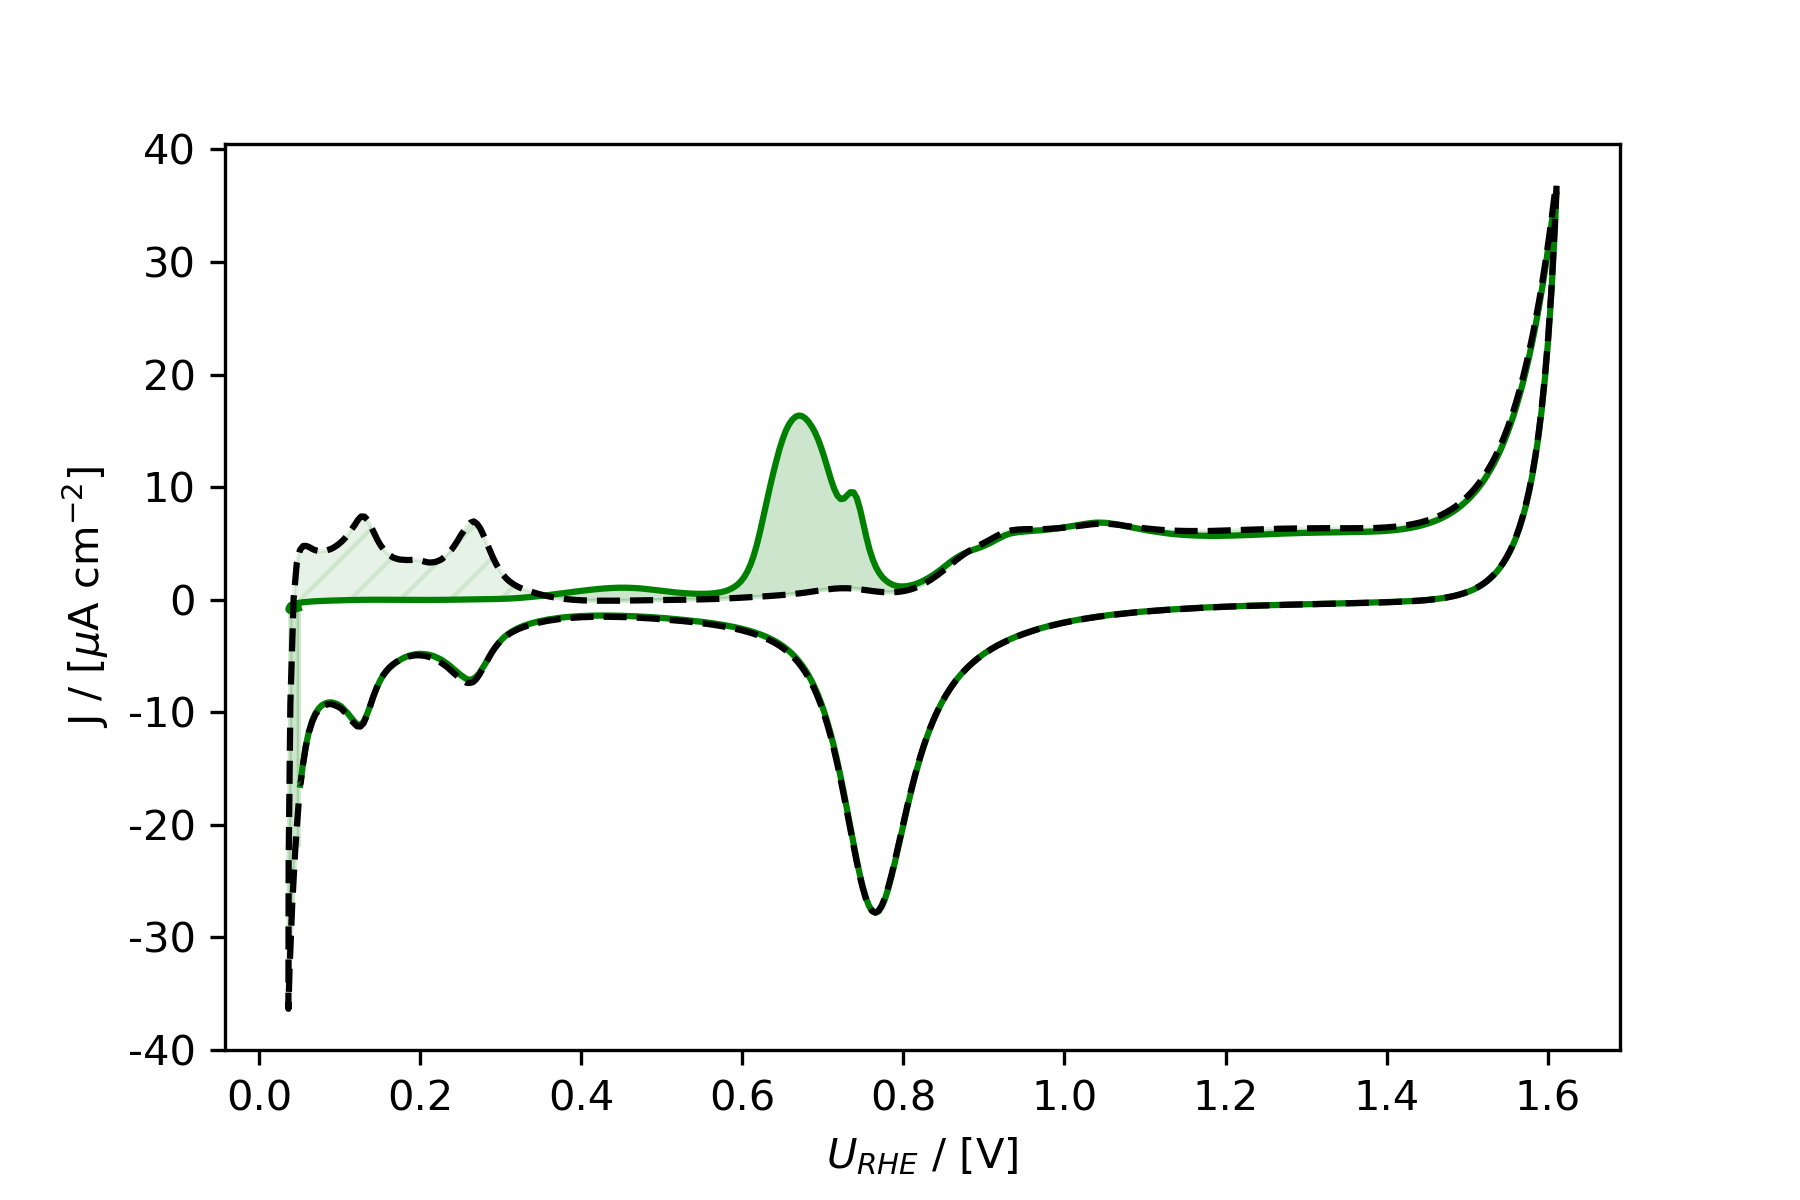
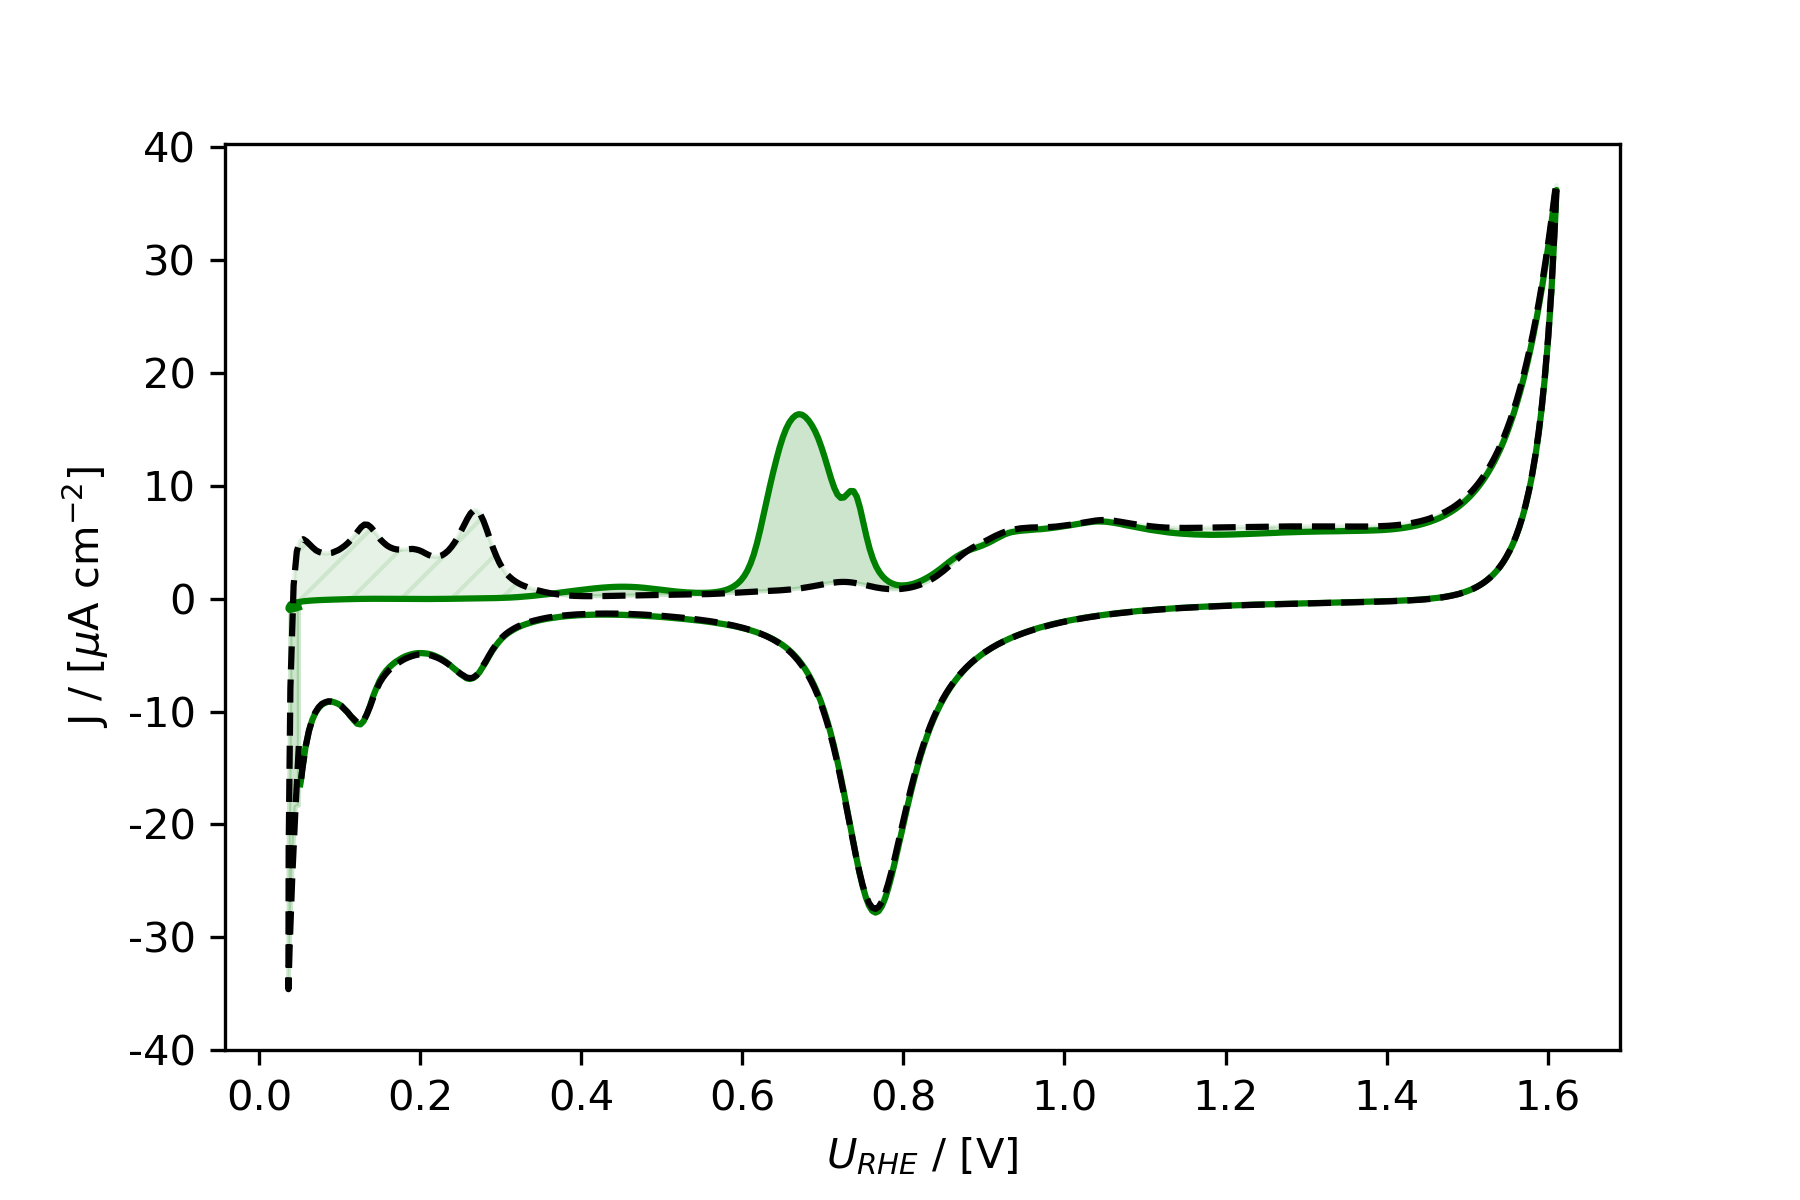
Change automatic figure naming so that all combinations of settings save unique figures

diff --git a/CO_strip_application_note/CO_stip_application_note_for_sharing_anw.py b/CO_strip_application_note/CO_stip_application_note_for_sharing_anw.py
@@ -26,7 +26,7 @@ DATA_SOURCE = "ixdat"
 # BioLogic .mpt files), or "ixdat" (for importing ixdat .csv files)
 WHICH_PART = "integrate+calibrate"
 # WHICH_PART can be "vs_time", "vs_potential", "integrate+calibrate"
-WHICH_REFERENCE = "2nd_cycle"
+WHICH_REFERENCE = "reference_cycle"
 # WHICH_REFERENCE determines which cycle is used as a baseline cycle for the 
 # CO strip. Can be "reference_cycle" (separate measurement), or "2nd_cycle"
 # (cycle directly after CO strip) 
@@ -153,8 +153,8 @@ def main():
         costrip_vs_u_fig = axes_c[0].get_figure()
         costrip_vs_u_fig.tight_layout()
         if SAVE_FIGURES is True:
-            plotname = "CO_strip+2ndcycle_vs_potential"
-            costrip_vs_u_fig.savefig(FIGURES_DIR / (plotname + FIGURE_TYPE))
+            plotname = "CO_strip_vs_potential_"
+            costrip_vs_u_fig.savefig(FIGURES_DIR / (plotname + WHICH_REFERENCE + FIGURE_TYPE))
         
     elif WHICH_PART == "integrate+calibrate":
         # FIRST integrate the ELECTROCHEMICAL CO stripping peak
@@ -221,7 +221,7 @@ def main():
         axes_co2_strip[2].set_yticklabels([-25, 0, 25])
         axes_co2_strip[2].set_ylabel("J / [$\mu$A cm$^{-2}$]")
         if SAVE_FIGURES is True:
-            axes_co2_strip[0].get_figure().savefig(FIGURES_DIR / ("CO_strip_CV_integrated_vs_time" + FIGURE_TYPE))
+            axes_co2_strip[0].get_figure().savefig(FIGURES_DIR / ("CO_strip_CV_integrated_vs_time_" + WHICH_REFERENCE + FIGURE_TYPE))
         
         print(f"Sensitivity factor F = {f_co2} using " + WHICH_REFERENCE + " as baseline.")
         
@@ -239,13 +239,15 @@ def main():
         if WHICH_REFERENCE == "reference_cycle":
             co_blank_cv.calibration = ECMSCalibration(ms_cal_results=[cal_co2], RE_vs_RHE=0, A_el=0.196)    
             bas_cycle = co_blank_cv[1]
+            tspan_background = [700,750]
         elif WHICH_REFERENCE == "2nd_cycle":
             bas_cycle = co_strip.cut(tspan=[1290, 1900])
+            tspan_background = [1700, 1800]
         else: #this is technically not required here, but left in anyway
             raise NameError("WHICH_REFERENCE not recognized.")
         
         axes_d = strip_cycle.plot_vs_potential(mol_list=["CO2_M44"], logplot=False, legend=False, tspan_bg=[600, 700])
-        bas_cycle.plot_vs_potential(axes=axes_d, mol_list=["CO2_M44"], logplot=False, linestyle=":", legend=False, tspan_bg=[1700, 1800])
+        bas_cycle.plot_vs_potential(axes=axes_d, mol_list=["CO2_M44"], logplot=False, linestyle=":", legend=False, tspan_bg=tspan_background)
         axes_d[0].set_xlabel("$U_{RHE}$ / [V]")
         axes_d[0].set_yticks([0, 1e-12, 2e-12, 3e-12, 4e-12, 5e-12])
         axes_d[0].set_yticklabels([0, 1, 2, 3, 4, 5])
@@ -254,8 +256,8 @@ def main():
         axes_d[1].set_yticklabels([-25, 0, 25])
         axes_d[1].set_ylabel("J / [$\mu$A cm$^{-2}$]")
         if SAVE_FIGURES is True:
-            plotname = "CO_strip+2ndcycle_vs_potential_calibrated"
-            axes_d[0].get_figure().savefig(FIGURES_DIR / (plotname + FIGURE_TYPE))
+            plotname = "CO_strip+2ndcycle_vs_potential_calibrated_using_"
+            axes_d[0].get_figure().savefig(FIGURES_DIR / (plotname + WHICH_REFERENCE + FIGURE_TYPE))
         
     else:
         raise NameError("WHICH_PART not recognized.")
